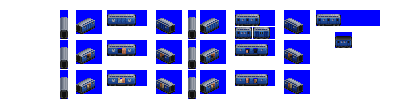
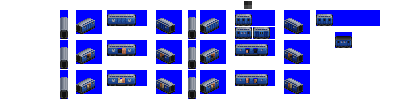
Codechange: simplify Mail Car implementation, no need for separate Mail Box Cars

Changed region(s): [[0.81, 0.12, 0.87, 0.27], [0.6, 0.12, 0.66, 0.27], [0.6, 0.0, 0.63, 0.09]]

diff --git a/src/vehicles/hopper_cars.py b/src/vehicles/hopper_cars.py
@@ -5,9 +5,9 @@ from train import HopperConsist, FreightCar
 def main():
     #--------------- pony ----------------------------------------------------------------------
     consist = HopperConsist(roster='pony',
-                                 base_numeric_id=1070,
-                                 gen=3,
-                                 subtype='A')
+                            base_numeric_id=1070,
+                            gen=3,
+                            subtype='A')
 
     consist.add_unit(type=FreightCar,
                      capacity=20,
@@ -22,9 +22,9 @@ def main():
                               graphics_processor=consist.graphics_processors['swap_company_colours'])
 
     consist = HopperConsist(roster='pony',
-                                base_numeric_id=2330,
-                                gen=3,
-                                subtype='B')
+                            base_numeric_id=2330,
+                            gen=3,
+                            subtype='B')
 
     consist.add_unit(type=FreightCar,
                      capacity=30,
@@ -39,9 +39,9 @@ def main():
                               graphics_processor=consist.graphics_processors['swap_company_colours'])
 
     consist = HopperConsist(roster='pony',
-                                 base_numeric_id=1080,
-                                 gen=4,
-                                 subtype='A')
+                            base_numeric_id=1080,
+                            gen=4,
+                            subtype='A')
 
     consist.add_unit(type=FreightCar,
                      capacity=30,
@@ -56,9 +56,9 @@ def main():
                               graphics_processor=consist.graphics_processors['swap_company_colours'])
 
     consist = HopperConsist(roster='pony',
-                                base_numeric_id=1090,
-                                gen=4,
-                                subtype='B')
+                            base_numeric_id=1090,
+                            gen=4,
+                            subtype='B')
 
     consist.add_unit(type=FreightCar,
                      capacity=40,
@@ -74,9 +74,9 @@ def main():
 
     #--------------- llama ----------------------------------------------------------------------
     consist = HopperConsist(roster='llama',
-                                 base_numeric_id=1100,
-                                 gen=2,
-                                 subtype='A')
+                            base_numeric_id=1100,
+                            gen=2,
+                            subtype='A')
 
     consist.add_unit(type=FreightCar,
                      capacity=55,
@@ -91,9 +91,9 @@ def main():
                               graphics_processor=consist.graphics_processors['swap_company_colours'])
 
     consist = HopperConsist(roster='llama',
-                                 base_numeric_id=1110,
-                                 gen=3,
-                                 subtype='A')
+                            base_numeric_id=1110,
+                            gen=3,
+                            subtype='A')
 
     consist.add_unit(type=FreightCar,
                      capacity=75,
@@ -108,10 +108,10 @@ def main():
                               graphics_processor=consist.graphics_processors['swap_company_colours'])
 
     consist = HopperConsist(roster='llama',
-                                 base_numeric_id=1120,
-                                 gen=2,
-                                 subtype='A',
-                                 track_type='NG')
+                            base_numeric_id=1120,
+                            gen=2,
+                            subtype='A',
+                            track_type='NG')
 
     consist.add_unit(type=FreightCar,
                      capacity=45,
@@ -126,10 +126,10 @@ def main():
                               graphics_processor=consist.graphics_processors['swap_company_colours'])
 
     consist = HopperConsist(roster='llama',
-                                 base_numeric_id=1130,
-                                 gen=3,
-                                 subtype='A',
-                                 track_type='NG')
+                            base_numeric_id=1130,
+                            gen=3,
+                            subtype='A',
+                            track_type='NG')
 
     consist.add_unit(type=FreightCar,
                      capacity=65,
@@ -145,9 +145,9 @@ def main():
 
     #--------------- antelope ----------------------------------------------------------------------
     consist = HopperConsist(roster='antelope',
-                                 base_numeric_id=1630,
-                                 gen=1,
-                                 subtype='A')
+                            base_numeric_id=1630,
+                            gen=1,
+                            subtype='A')
 
     consist.add_unit(type=FreightCar,
                      capacity=60,
@@ -162,9 +162,9 @@ def main():
                               graphics_processor=consist.graphics_processors['swap_company_colours'])
 
     consist = HopperConsist(roster='antelope',
-                                 base_numeric_id=1660,
-                                 gen=2,
-                                 subtype='A')
+                            base_numeric_id=1660,
+                            gen=2,
+                            subtype='A')
 
     consist.add_unit(type=FreightCar,
                      capacity=75,
@@ -180,10 +180,10 @@ def main():
 
     # no gen 1 NG hopper in Antelope, straight to gen 2
     consist = HopperConsist(roster='antelope',
-                                 base_numeric_id=1890,
-                                 gen=2,
-                                 subtype='A',
-                                 track_type='NG')
+                            base_numeric_id=1890,
+                            gen=2,
+                            subtype='A',
+                            track_type='NG')
 
     consist.add_unit(type=FreightCar,
                      capacity=35,

diff --git a/src/vehicles/mail_cars.py b/src/vehicles/mail_cars.py
@@ -5,9 +5,22 @@ from train import MailConsist, MailCar
 def main():
     #--------------- pony ----------------------------------------------------------------------
     consist = MailConsist(roster='pony',
-                          base_numeric_id=2220,
+                          base_numeric_id=2280,
                           gen=1,
                           subtype='A',
+                          speedy=True)
+
+    consist.add_unit(type=MailCar,
+                     capacity=15,
+                     vehicle_length=4)
+
+    consist.add_model_variant(start_date=0,
+                              end_date=global_constants.max_game_date)
+
+    consist = MailConsist(roster='pony',
+                          base_numeric_id=2220,
+                          gen=1,
+                          subtype='B',
                           speedy=True)
 
     consist.add_unit(type=MailCar,
@@ -17,10 +30,24 @@ def main():
     consist.add_model_variant(start_date=0,
                               end_date=global_constants.max_game_date)
 
+    consist = MailConsist(
+        roster='pony',
+        base_numeric_id=2290,
+        gen=2,
+        subtype='A',
+        speedy=True)
+
+    consist.add_unit(type=MailCar,
+                     capacity=25,
+                     vehicle_length=4)
+
+    consist.add_model_variant(start_date=0,
+                              end_date=global_constants.max_game_date)
+
     consist = MailConsist(roster='pony',
                           base_numeric_id=920,
                           gen=2,
-                          subtype='A',
+                          subtype='B',
                           speedy=True)
 
     consist.add_unit(type=MailCar,
@@ -31,9 +58,22 @@ def main():
                               end_date=global_constants.max_game_date)
 
     consist = MailConsist(roster='pony',
-                          base_numeric_id=940,
+                          base_numeric_id=2300,
                           gen=3,
                           subtype='A',
+                          speedy=True)
+
+    consist.add_unit(type=MailCar,
+                     capacity=40,
+                     vehicle_length=6)
+
+    consist.add_model_variant(start_date=0,
+                              end_date=global_constants.max_game_date)
+
+    consist = MailConsist(roster='pony',
+                          base_numeric_id=940,
+                          gen=3,
+                          subtype='B',
                           speedy=True)
 
     consist.add_unit(type=MailCar,

diff --git a/src/train.py b/src/train.py
@@ -858,17 +858,6 @@ class MailConsist(MailConsistBase):
         self.title = '[Mail Car]'
 
 
-class MailBoxConsist(MailConsistBase):
-    """
-    Mail Box Car.
-    Looks more utilitarian and secure than a mail car, no windows.
-    """
-    def __init__(self, **kwargs):
-        self.base_id = 'mail_box_car'
-        super().__init__(**kwargs)
-        self.title = '[Mail Box Car]'
-
-
 class MailHighSpeedConsist(MailConsistBase):
     """
     No speed limit (possibly more limited set of cargos? - undecided).

diff --git a/src/global_constants.py b/src/global_constants.py
@@ -5,7 +5,6 @@ buy_menu_sort_order_wagons = ['metro_car',
                               'luxury_passenger_car',
                               'high_speed_passenger_car',
                               'mail_car',
-                              'mail_box_car',
                               'high_speed_mail_car',
                               'open_car',
                               'box_car',

diff --git a/src/iron_horse.py b/src/iron_horse.py
@@ -69,9 +69,6 @@ log_cars.main()
 from vehicles import luxury_passenger_cars
 luxury_passenger_cars.main()
 
-from vehicles import mail_box_cars
-mail_box_cars.main()
-
 from vehicles import mail_cars
 mail_cars.main()
 
